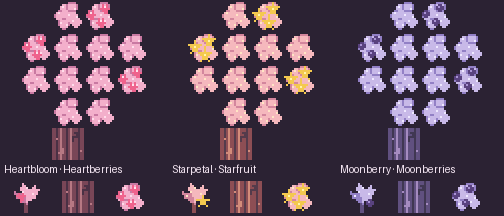
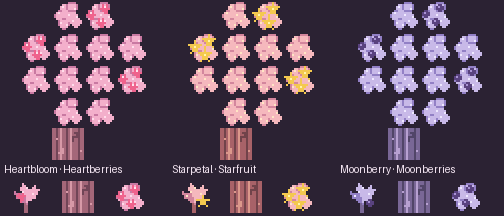
Lighten pastel orchard wood textures

diff --git a/tools/generate_pantry_trees.py b/tools/generate_pantry_trees.py
@@ -10,22 +10,22 @@ DATA = ROOT / "src/main/resources/data/uwudimension"
 TREES = {
     "heartbloom": {
         "fruit": "heartberry", "fruit_name": "Heartberries", "leaves": "#F3AFCB",
-        "leaf_dark": "#C979A2", "leaf_light": "#FFDCEA", "wood": "#794657",
-        "wood_light": "#B77883", "wood_dark": "#4A3145", "fruit_color": "#EF638D",
+        "leaf_dark": "#C979A2", "leaf_light": "#FFDCEA", "wood": "#A46779",
+        "wood_light": "#D799A7", "wood_dark": "#714557", "fruit_color": "#EF638D",
         "fruit_light": "#FFE2EC", "sapling": "Heartbloom Sapling", "log": "Heartbloom Log",
         "leaf_name": "Heartbloom Fruiting Leaves", "biomes": ["ribbon_bluffs", "lantern_fens"],
     },
     "starpetal": {
         "fruit": "starfruit", "fruit_name": "Starfruit", "leaves": "#F5B8BD",
-        "leaf_dark": "#D3869D", "leaf_light": "#FFE5C5", "wood": "#8D4E54",
-        "wood_light": "#D38C7A", "wood_dark": "#543B4B", "fruit_color": "#F4C94F",
+        "leaf_dark": "#D3869D", "leaf_light": "#FFE5C5", "wood": "#A86268",
+        "wood_light": "#DB988B", "wood_dark": "#71434A", "fruit_color": "#F4C94F",
         "fruit_light": "#FFF4AB", "sapling": "Starpetal Sapling", "log": "Starpetal Log",
         "leaf_name": "Starpetal Fruiting Leaves", "biomes": ["velvet_highlands", "ribbon_bluffs"],
     },
     "moonberry": {
         "fruit": "moonberry", "fruit_name": "Moonberries", "leaves": "#C8B9E8",
-        "leaf_dark": "#9280C5", "leaf_light": "#EEE8FF", "wood": "#60507F",
-        "wood_light": "#A58BC0", "wood_dark": "#403752", "fruit_color": "#59427F",
+        "leaf_dark": "#9280C5", "leaf_light": "#EEE8FF", "wood": "#796796",
+        "wood_light": "#B7A0D1", "wood_dark": "#514568", "fruit_color": "#59427F",
         "fruit_light": "#A993D4", "sapling": "Moonberry Sapling", "log": "Moonberry Log",
         "leaf_name": "Moonberry Fruiting Leaves", "biomes": ["lantern_fens", "velvet_highlands"],
     },
